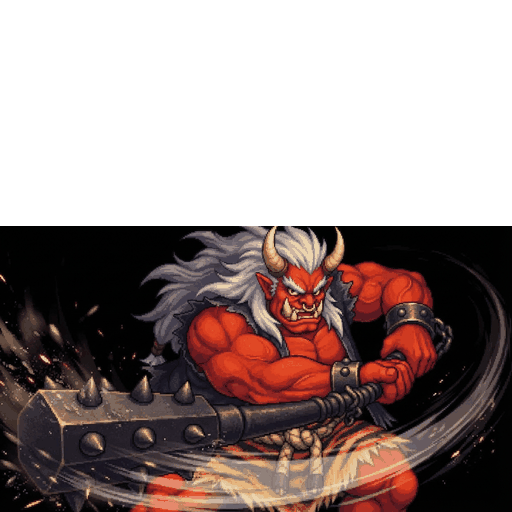
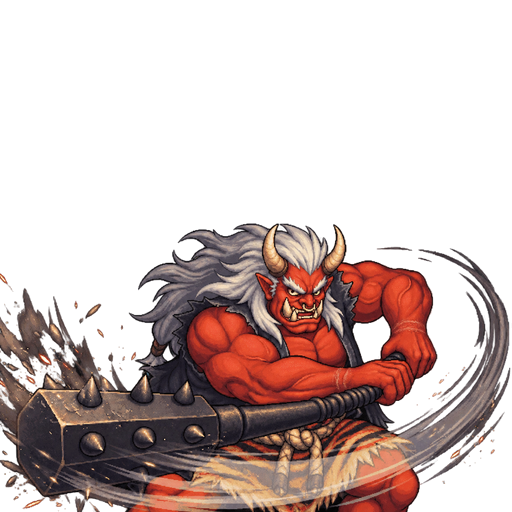
Codex 20261114T141951Z-375892e7: AKURA-NOCHAIN (Codex) — อากุระ (บอสชายแดนโซน 2) ไม่มีโซ่/กุญแจมือ · 14 พ [ready_for_review]

diff --git a/docs/art-reviews/2026-11-14-akura-nochain/README.md b/docs/art-reviews/2026-11-14-akura-nochain/README.md
@@ -1,0 +1,105 @@
+# AKURA-NOCHAIN — อากุระไม่มีโซ่ (14 พฤศจิกายน 2569)
+
+แก้ภาพเดิมด้วย **ImageGen ในตัว** ให้ข้อมือทั้งสองข้างเปลือย ไม่มีตรวน โซ่ หรือกำไลเหล็ก เหลือรอยด้าน/แผลเป็นเก่าจาง ๆ ใช้ต้นฉบับจาก worktree นี้เป็นภาพตั้งต้นทุกครั้ง
+
+ไม่พบไฟล์ `Output/Rae/2026-11-14-avegee-z2-events.md` ใน worktree จึงยึดเนื้อเรื่องและคำยืนยันที่แนบอยู่ใน brief โดยตรง ไม่ได้ตรวจเนื้อหาไฟล์ดังกล่าว
+
+## ไฟล์ที่เขียนทับ
+
+| ไฟล์ใน repo | ขนาด / โหมด | การเข้ารหัส | ผลที่เลือก |
+| --- | --- | --- | --- |
+| `img/Asia/boss-frontier-asia.webp` | 512×512 RGBA | WebP lossless, method 6 | ครั้งที่ 2 |
+| `img/Asia/boss-frontier-asia-cutscene-asia.webp` | 512×512 RGBA | WebP lossless, method 6 | ครั้งที่ 2 |
+| `img/frontier-asia-intro-v1.webp` | 1672×941 RGB | WebP q86, method 6 | ครั้งที่ 1 |
+
+สร้างภาพทั้งหมด 6 ครั้ง: ภาพละ 2 ครั้ง (แก้ซ้ำภาพละ 1 ครั้ง) อยู่ในงบไม่เกิน 8 ครั้ง และไม่เกินแก้ซ้ำ 2 ครั้งต่อภาพ ภาพสำรองที่ไม่ได้เลือกไม่รวมในชุดส่งมอบ
+
+ภาพโปร่งใสจาก ImageGen ขนาด 1254×1254 ย่อกลับเป็น 512×512 ด้วย Lanczos โดยไม่ครอป เปลี่ยนอัลฟาต่ำกว่า 8 เป็นศูนย์ เก็บเฉพาะองค์ประกอบหลักของภาพยืนเพื่อลบฝุ่นนอกขอบ 27 พิกเซล สำหรับภาพท่าฟาดลบเฉพาะกลุ่มไม่เกิน 4 พิกเซลที่มีอัลฟาสูงสุดต่ำกว่า 32 รวม 93 พิกเซล และเก็บสะเก็ด/เศษกระเด็นที่สว่างกว่าไว้ เปรียบเทียบอัลฟาก่อนและหลังเข้ารหัส WebP แล้วตรงกันทั้งหมด
+
+## ภาพเทียบ ซ้ายเดิม | ขวาใหม่
+
+ป้าย BEFORE/AFTER อยู่ในภาพเอกสารเทียบเท่านั้น ไม่ได้ใส่ในไฟล์ภาพเกม พื้นตารางใช้แสดงความโปร่งใส
+
+- [ภาพยืน](boss-frontier-asia-before-after.jpg)
+- [ภาพท่าฟาด](boss-frontier-asia-cutscene-asia-before-after.jpg)
+- [ฉากชายแดน](frontier-asia-intro-v1-before-after.jpg)
+
+## ตรวจตัวเองตามเกณฑ์รับงาน
+
+| เกณฑ์ | ผลตรวจและข้อจำกัด |
+| --- | --- |
+| 1. ภาพยืนไม่มีตรวน/โซ่ ข้อมือเปลือย มีรอยเก่า | ตรวจภาพส่งออกแล้วไม่เห็นโลหะหรือโซ่ที่ข้อมือทั้งสอง มีรอยเก่าบนผิว คงกระบอง เขา ผม ผ้าเสือ เชือก รองเท้าและท่ายืนในองค์ประกอบเดิม แต่เส้น/พื้นผิวมีความต่างเล็กน้อยจากการสร้างภาพ |
+| 2. ภาพท่าฟาดไม่มีตรวน/โซ่ คงท่าและเอฟเฟกต์ | ตรวจภาพส่งออกแล้วไม่เห็นตรวนหรือโซ่ทั้งสองข้อมือ คงท่าจับกระบองและแนวฟาดหลัก มีการวาดเส้น/สะเก็ดบางส่วนต่างจากเดิม เปลี่ยนพื้นดำทึบเดิมรอบภาพให้โปร่งใส |
+| 3. ฉากชายแดนไม่มีตรวน/โซ่ และฉากหลังคงเดิมทุกอย่าง | ไม่เห็นตรวนหรือโซ่ที่ข้อมือแล้ว องค์ประกอบฉากและสิ่งของหลักอยู่ตำแหน่งเดิม แต่ **เกณฑ์ฉากหลังคงเดิมทุกอย่างยังไม่ครบถ้วน**: ImageGen เปลี่ยนรายละเอียดพื้นผิวบางจุด จึงไม่อ้างว่าพิกเซลฉากหลังเหมือนต้นฉบับ |
+| ไฟล์ครบ เปิดได้ ขนาด/โหมดสีเดิม | ตรวจทั้งสามด้วย Pillow verify/load และ assertions ตรงตามตาราง ดูค่าจริงและ SHA-256 ใน checks.json |
+| อัลฟาขอบสะอาดสำหรับข้อ 1–2 | ตรวจบนพื้นสว่าง/มืดและพื้นตาราง ไม่มีกรอบดำ พิกเซลอัลฟา 1–7 เป็นศูนย์ มุมทั้งสี่โปร่งใส ภาพยืนเหลือองค์ประกอบเชื่อมต่อเดียว ภาพท่าฟาดไม่มีฝุ่นกลุ่มเล็กตามเกณฑ์ข้างต้น ตรวจอัลฟาเข้ารหัสแบบ lossless ด้วยการเทียบก่อน/หลัง |
+| WebP ภาพวาด q86 / อัลฟา lossless | ฉาก RGB บันทึก q86; ภาพ RGBA ทั้งภาพเป็น lossless ตรวจ RIFF ว่าใช้ VP8 และ VP8L ตามลำดับ |
+| ไม่มีตัวอักษรในภาพ | ตรวจภาพส่งออกด้วยตา ไม่พบข้อความหรือ watermark เพิ่ม สัญลักษณ์ตกแต่งธง/ประตูในฉากเดิมยังอยู่เพื่อรักษาองค์ประกอบฉาก ไม่ได้ตรวจด้วย OCR |
+| งบและการแก้ซ้ำ | 6/8 ครั้ง แก้ซ้ำ 1/2 ครั้งต่อภาพ |
+| เอกสารภาพเทียบ JPG และ README ไทย | มี JPG ครบสามคู่และ README นี้ พร้อม checks.json |
+| ขอบเขต git และงาน | ใช้ worktree/branch ที่ได้รับ ไม่สร้างหรือสลับ branch ไม่ commit/push/merge ไม่ deploy ไม่แก้ hooks, status.json, worklog.json หรือโค้ดเกม |
+
+## การตรวจที่รัน
+
+```sh
+node --test tests/30a.test.mjs tests/i2b-frontier-boss.test.mjs tests/asset-paths-runtime.test.mjs
+```
+
+ผล **24 tests, 24 pass, 0 fail** มี ExperimentalWarning เรื่อง localStorage ของ Node แต่คำสั่งจบด้วย exit code 0 ชุดนี้ตรวจทางเลือกภาพฉาก การอ้างไฟล์ และพฤติกรรมบอสที่มีอยู่แล้ว ไม่ได้ตรวจว่าไม่มีโซ่ด้วยระบบอัตโนมัติ และไม่ได้รันเกมเพื่อทดสอบภาพจริง
+
+ตรวจไฟล์ด้วย Python/Pillow: เปิด/ถอดรหัส ขนาด โหมด ช่องอัลฟา RIFF chunks อัลฟา lossless round-trip และเปิด JPG ทั้งสามสำเร็จ บันทึกผลใน [checks.json](checks.json) ผลเหล่านี้เป็นการตรวจเฉพาะส่วน **ไม่ใช่การรับรอง QA ของเกม**
+
+ตรวจไฟล์ส่งมอบซ้ำจากราก repo ได้ด้วยคำสั่งต่อไปนี้ (ต้องมี Pillow):
+
+```sh
+python3 - <<'PY'
+import hashlib, json
+from pathlib import Path
+from PIL import Image
+review = Path("docs/art-reviews/2026-11-14-akura-nochain")
+report = json.loads((review / "checks.json").read_text())
+for row in report["assets"]:
+    p = Path(row["path"])
+    assert hashlib.sha256(p.read_bytes()).hexdigest() == row["sha256"], p
+    with Image.open(p) as im:
+        im.verify()
+    with Image.open(p) as im:
+        im.load()
+        assert im.format == "WEBP"
+        assert list(im.size) == row["size"] and im.mode == row["mode"]
+        if im.mode == "RGBA":
+            a = im.getchannel("A")
+            hist = a.histogram()
+            assert sum(hist[1:8]) == 0 and hist[0] > 0 and hist[255] > 0
+            assert [a.getpixel(xy) for xy in
+                    [(0, 0), (511, 0), (0, 511), (511, 511)]] == [0] * 4
+for name in report["comparisons"]:
+    with Image.open(review / name) as im:
+        assert im.format == "JPEG"
+        im.verify()
+print("verified: 3 WebP assets and 3 JPEG comparisons")
+PY
+```
+
+## Prompt ของภาพที่เลือก
+
+โหมด built-in ImageGen edit ใช้ภาพต้นฉบับแยกทีละไฟล์ ภาพยืน/ท่าฟาดตั้ง transparent_background=true และฉากชายแดนตั้ง false
+
+### ภาพยืน — ครั้งที่ 2
+
+```text
+Surgical local image edit, precise-object-edit. Edit ONLY the ORIGINAL attached image. It is the finished illustration, NOT a style reference: do NOT redraw/re-render the whole image. Remove both iron wrist cuffs and all their attached chain links at left image wrist at (90,178) and dangling links down to (50,250); right image wrist at (403,300) and dangling links down to (441,375). Reconstruct bare red skin wrists with faint old calluses/scars and the originally occluded areas, matching the immediately adjacent original pixels. No wrist jewelry, metal bands, shackles or chains remain. Keep the original colors, shading, crisp brushwork and line outlines. Keep the EXACT original grinning face, muscular proportions, leg stance, club angle, tiger stripes, rope knot and sandals. Keep the character exactly in its original 512x512 canvas position. All unrelated pixels, character face, horns, white hair, spiked club, tiger pelt, rope and shoes must stay EXACTLY as input. Preserve composition and pose. No added text or watermark. Return only the edited original image.
+```
+
+### ภาพท่าฟาด — ครั้งที่ 2
+
+```text
+Surgical local image edit, precise-object-edit. Edit ONLY the ORIGINAL attached image. It is the finished illustration, NOT a style reference: do NOT redraw/re-render the whole image. Remove both iron wrist cuffs and all their attached chain links at horizontal wrist near (347,377) and bent raised wrist near (410,316), including the short dangling links to their right. Reconstruct bare red skin wrists with faint old calluses/scars and the originally occluded areas, matching the immediately adjacent original pixels. No wrist jewelry, metal bands, shackles or chains remain. Keep the original colors, shading, crisp brushwork and line outlines. Keep the EXACT original club and motion-trail shape, debris, face, hair strands, torso, tiger stripes, rope knot and 512x512 canvas position, with the top 226px empty. Replace the black empty background around subject/effects with real transparency without altering the effects. All unrelated pixels, character face, horns, white hair, spiked club, tiger pelt, rope and shoes must stay EXACTLY as input. Preserve composition and pose. No added text or watermark. Return only the edited original image.
+```
+
+### ฉากชายแดน — ครั้งที่ 1
+
+```text
+Use case: precise-object-edit. Edit target: the attached wide border fortress scene of red oni Akura. Remove ONLY both riveted iron wrist manacles and all dangling chain links attached to them. Left side of image: around the hand holding the club over his shoulder. Right side: around the foreshortened reaching hand and hanging chain below it. Replace the wrist cuffs with anatomically natural bare red wrists with faint old callus/scar marks in the skin (NOT metal, NOT bracelets, NOT rope bands). Fill former chain areas with the exactly corresponding fortress wall/background or body. Preserve the entire original scene, exact composition, camera, pose, face, horns, hair, club, tiger pelt, waist rope, sandals, pixel-art brushwork, lighting and palette. Keep ALL background architecture, banners, gates, braziers, smoke, clouds, moon, trees and ground unchanged. No framing changes, cropping or added objects. Maintain original wide 1672x941 aspect ratio. Do not add any text, lettering or watermark; retain existing background visual details. Output only the edited scene, not a comparison.
+```
+
